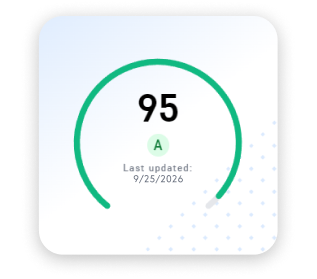
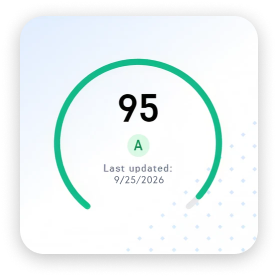
feat: drop the card chrome from the products grid
Matches the artifact frame: the thumbnails carry their own edges, so the
BaseCard border, radius, and shadow read as a frame within a frame.

diff --git a/src/components/portfolio/case-studies/whitehawk/products/WhiteHawkProducts.tsx b/src/components/portfolio/case-studies/whitehawk/products/WhiteHawkProducts.tsx
@@ -1,6 +1,5 @@
 import { AutoH } from '@/components/primitives/AutoH'
 import { AutoHProvider } from '@/components/primitives/AutoHProvider'
-import { BaseCard } from '@/components/primitives/BaseCard'
 import { BaseT4 } from '@/components/primitives/BaseT4'
 import { TransitionLink } from '@/components/primitives/TransitionLink'
 import { PRODUCTS } from '@/content/products'
@@ -13,31 +12,29 @@ export function WhiteHawkProducts() {
           <li key={product.id}>
             <TransitionLink
               to={`/portfolio/whitehawk/${product.id}`}
-              className="block rounded-lg focus-visible:outline-2 focus-visible:outline-offset-2 focus-visible:outline-iron-orange"
+              className="flex flex-col rounded-lg focus-visible:outline-2 focus-visible:outline-offset-2 focus-visible:outline-iron-orange"
             >
-              <BaseCard className="overflow-hidden transition-opacity hover:opacity-80">
-                <div className="aspect-square w-full bg-beaver/10 dark:bg-cream/5">
-                  {product.thumbnail && (
-                    <img
-                      src={product.thumbnail}
-                      alt={product.name}
-                      className="h-full w-full object-cover"
-                    />
-                  )}
-                </div>
-                <div className="p-3">
-                  <AutoHProvider>
-                    <AutoH>
-                      <BaseT4
-                        variant="body"
-                        className="text-beaver-dark antialiased dark:text-cream"
-                      >
-                        {product.name}
-                      </BaseT4>
-                    </AutoH>
-                  </AutoHProvider>
-                </div>
-              </BaseCard>
+              <div className="aspect-square w-full">
+                {product.thumbnail && (
+                  <img
+                    src={product.thumbnail}
+                    alt={product.name}
+                    className="size-full object-cover"
+                  />
+                )}
+              </div>
+              <div className="px-3">
+                <AutoHProvider>
+                  <AutoH>
+                    <BaseT4
+                      variant="body"
+                      className="text-beaver-dark antialiased dark:text-cream"
+                    >
+                      {product.name}
+                    </BaseT4>
+                  </AutoH>
+                </AutoHProvider>
+              </div>
             </TransitionLink>
           </li>
         ))}
